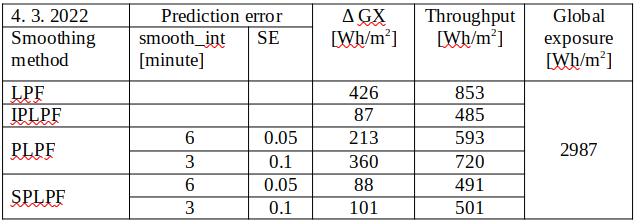
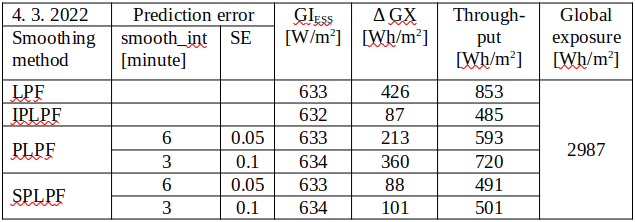
ESS power in tables

diff --git a/docs/pv_smooth.md b/docs/pv_smooth.md
@@ -56,7 +56,7 @@ The accumulation rate is expressed by \eqref{eq:4} and \eqref{eq:5}, and also by
 
 $$P_{ESS}=max|p(\tau)-s(\tau+\Delta t)|\tag{6}\label{eq:6}$$
 
-Its typical value is about 80% of the installed PV power.
+In practise, its maximum value does not exceed 80% of the installed PV power.
 
 Let us expect that the PV power p(t) is proportional to the global solar irradiance GI [W/m^2^]. In our experiment, the solar irradiance is intercepted by a planar panel 20 cm x 16 cm on the earth’s surface at latitude=48.2°N, longitude=17.1°E, with the plane of incidence elevated by 47°, south-oriented. To be exact, we should mention that p(t) is usually smoother than GI(t), as the (usually greater) surface area of the corresponding PV plane acts like a moving-average filter of GI(t). Unfortunately, the size and speed of clouds prevent a true smoothing effect from being achieved. By assuming the proportionality between GI(t) and p(t) we analyze the worst case of PV intermittency. Let us now substitute the signals p(τ), s(τ+Δt) in \eqref{eq:1}, \eqref{eq:5}, \eqref{eq:6} by the measured signal GI(τ) and by its “predicted-and-smoothed” counterpart GI~s~(τ+Δt). After substituting, the intergal \eqref{eq:1} computes the time course of specific accumulated energy GX(t) [Wh/m^2^] by the filter, whereas SOC(t) is proportional to GX(t). The integral \eqref{eq:5} computes the specific accumulated throughput [Wh/m^2^] per cycle T.
 
@@ -164,24 +164,26 @@ Filter order is the third OLAP dimension, impact of which on the smoothing perfo
 - Increasing the filter order notably reduces the accumulation rate induced by both IPLPF and SPLPF smoothing methods (Figures 13-15, 19-21). With the simulated predictor, this trend is reversed between orders 3 and 4 by the SPLPF method. ***With the simulated predictor, SPLPF performs best with the filter order 3.***
 
 ## Numeric results of smoothing
-Two days with strong solar intermittency have been selected for the simulation: a day with medium solar exposure 3.0 kWh/m^2^, and a day with high solar exposure 5.9 kWh/m^2^ (measured at the above-specified plane of incidence). A 3rd-order low-pass filter excited by the input power signal with time advance Δt = 30 minutes has been applied in order to provide a desired smoothing quality of the PV power. Accumulation rate by four different smoothing methods has been aggregated, based on the measured signal GI(t) and the simulated-predicted signal GI~f~(t+Δt). The results are summarized in Tables 2 and 3: In the column "ΔGX", a difference between the maximum and minimum specific accumulated energy is calculated by the expression (4). In the column "Throughput", a daily flow of specific energy through the accumulator is calculated by (5). A daily specific global exposure in the plane of incidence is also shown for comparison.
+Two days with strong solar intermittency have been selected for the simulation: a day with medium solar exposure 3.0 kWh/m^2^, and a day with high solar exposure 5.9 kWh/m^2^ (measured at the above-specified plane of incidence). A 3rd-order low-pass filter excited by the input power signal with time advance Δt = 30 minutes has been applied in order to provide a desired smoothing quality of the PV power. Accumulation rate by four different smoothing methods has been aggregated, based on the measured signal GI(t) and the simulated-predicted signal GI~f~(t+Δt). The results are per-day summarized in Tables 2 and 3:
 
-### Accumulated energy by smoothing
+### Accumulation rate by smoothing
 <figure markdown>
   ![IPLPF Costs](img/Accu_Rate_220304.png){ width="650"}
   <figcaption>Table 2</figcaption>
 </figure>
-.  
+  
 <figure markdown>
   ![IPLPF Costs](img/Accu_Rate_220404.png){ width="650"}
   <figcaption>Table 3</figcaption>
 </figure>
 
-With "better GI prediction accuracy", the SPLPF smoothing required 21% - 22% of the ESS energy capacity (ΔGX) used by the LPF method during the selected days, or 24% - 41% of the capacity used by the PLPF method. SPLPF eventually required 1.0 - 1.2 times the ESS capacity used by the IPLPF method. The SPLPF smoothing put 58% - 73% of the energy flow through the accumulator relative to the LPF method, or 75% - 83% of the energy throughput by the PLPF method. SPLPF eventually put 1.0 - 1.1 times more energy through ESS than the IPLPF method.
+Maximum specific power from/to ESS calculated by \eqref{eq:6} is in the column "GI~ESS~". Difference between the maximum and minimum specific accumulated energy calculated by \eqref{eq:4} is in the column "ΔGX". Daily flow of the specific energy through ESS calculated by \eqref{eq:5} is in the column "Throughput". Daily specific global exposure in the plane of incidence is also displayed.
 
-With "worse GI prediction accuracy", the SPLPF smoothing required 24% - 33% of the ESS energy capacity (ΔGX) used by the LPF method during the selected days, or 19% - 28% of the capacity used by the PLPF method. SPLPF eventually required 1.2 - 1.8 times the ESS capacity used by the IPLPF method. The SPLPF method put 59% - 77% of the daily energy flow through the accumulator relative to the LPF method, or 63% - 69% of the energy throughput by the PLPF method. SPLPF eventually put 1.0 - 1.1 times more  energy through ESS than the IPLPF method.
+With "better prediction accuracy", the SPLPF smoothing required 21% - 22% of the ESS energy capacity (ΔGX) used by the LPF method during the selected days, or 24% - 41% of the capacity used by the PLPF method. SPLPF eventually required 1.0 - 1.2 times the ESS capacity used by the IPLPF method. The SPLPF smoothing put 58% - 73% of the energy flow through the accumulator relative to the LPF method, or 75% - 83% of the energy throughput by the PLPF method. SPLPF eventually put 1.0 - 1.1 times more energy through ESS than the IPLPF method.
 
-Although we haven't analyzed the whole year (the numerical simulation is computationally intensive), the numerical analysis of 4 smoothing methods on selected days with various solar intermittency and solar exposure, by 4 filter orders and with various prediction error has brought a deep insight to the SPLPF performance. This smoothing method performs much better than PLPF and ***with a relatively small prediction error, SPLPF performs close to the ideal smoothing IPLPF.*** The empirical results have also been theoretically proven. 
+With "worse prediction accuracy", the SPLPF smoothing required 24% - 33% of the ESS energy capacity (ΔGX) used by the LPF method during the selected days, or 19% - 28% of the capacity used by the PLPF method. SPLPF eventually required 1.2 - 1.8 times the ESS capacity used by the IPLPF method. The SPLPF method put 59% - 77% of the daily energy flow through the accumulator relative to the LPF method, or 63% - 69% of the energy throughput by the PLPF method. SPLPF eventually put 1.0 - 1.1 times more  energy through ESS than the IPLPF method.
+
+Although we did not analyze the whole year (numerical simulation is computationally intensive), numerical analysis of the 4 smoothing methods on selected days with various solar intermittency and solar exposure, with 4 filter orders, and with various prediction error provides a detailed insight into the SPLPF performance. This smoothing method performs much better than PLPF, and ***with a relatively small prediction error, SPLPF performs close to the ideal smoothing IPLPF.*** The empirical results have been theoretically proven.
 
 ## Graphical display of smoothing
 The following graphs show the smoothing quality and accumulated energy according to the smoothing method and the 3 OLAP dimensions. The measured PV data from 2 selected days have been processed and plotted as the following per-day time courses:

diff --git a/docs/v_glossary.md b/docs/v_glossary.md
@@ -15,7 +15,7 @@ GHI = global horizontal irradiance [W/m^2^]
 GI = global irradiance [W/m^2^] (unspecified plane of incidence)  
 GIf = forecasted future global irradiance [W/m^2^]  
 GNI = global normal irradiance [W/m^2^]  
-GX = specific accumulated energy by filter (GI-corresponding) [Wh]/m^2^]  
+GX = specific accumulated energy by filter (GI-corresponding) [Wh/m^2^]  
 HSC = hybrid supercapacitor  
 IPLPF = ideal predictive low-pass filter  
 Li-Ion = Lithium-Ion accumulation technology  
